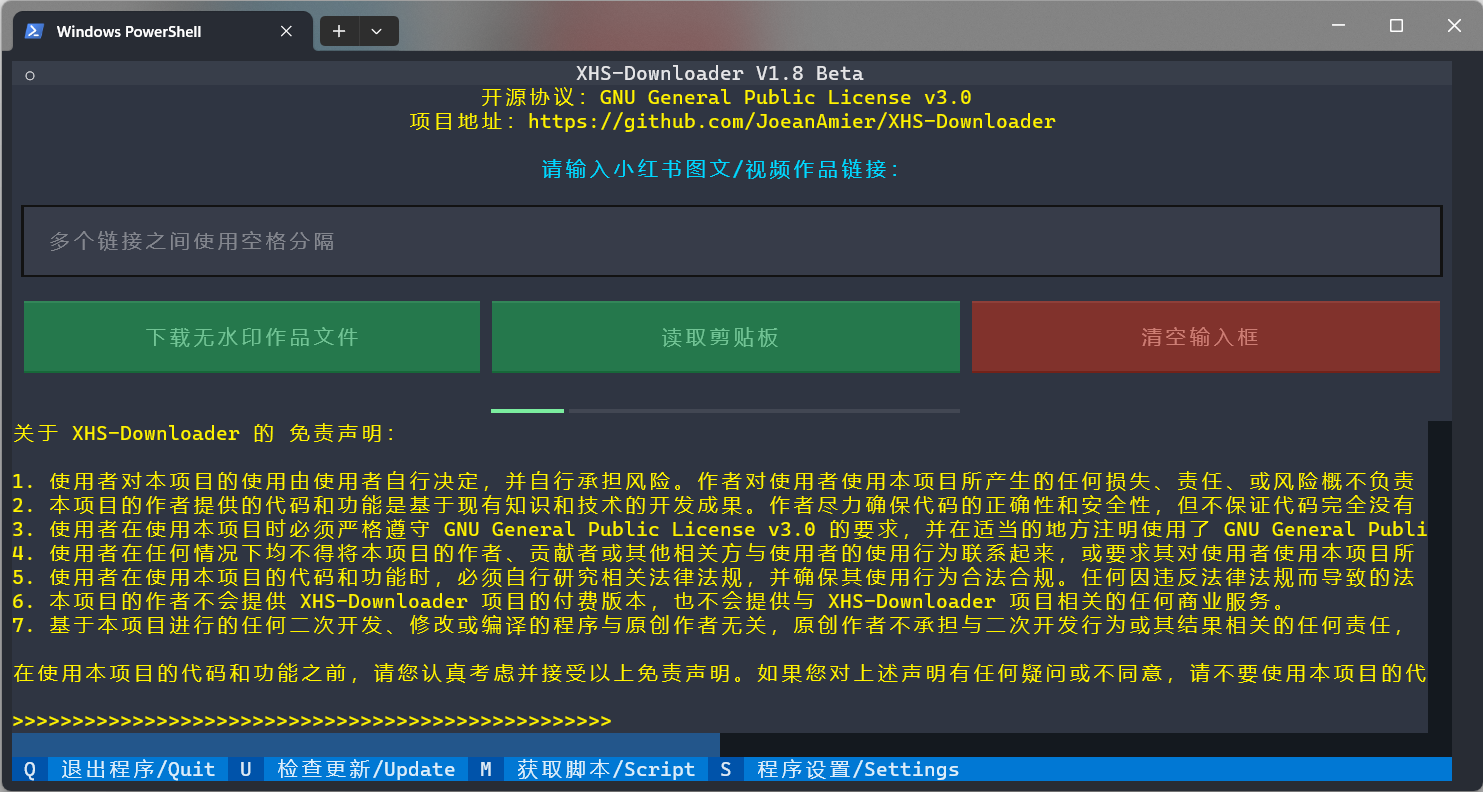
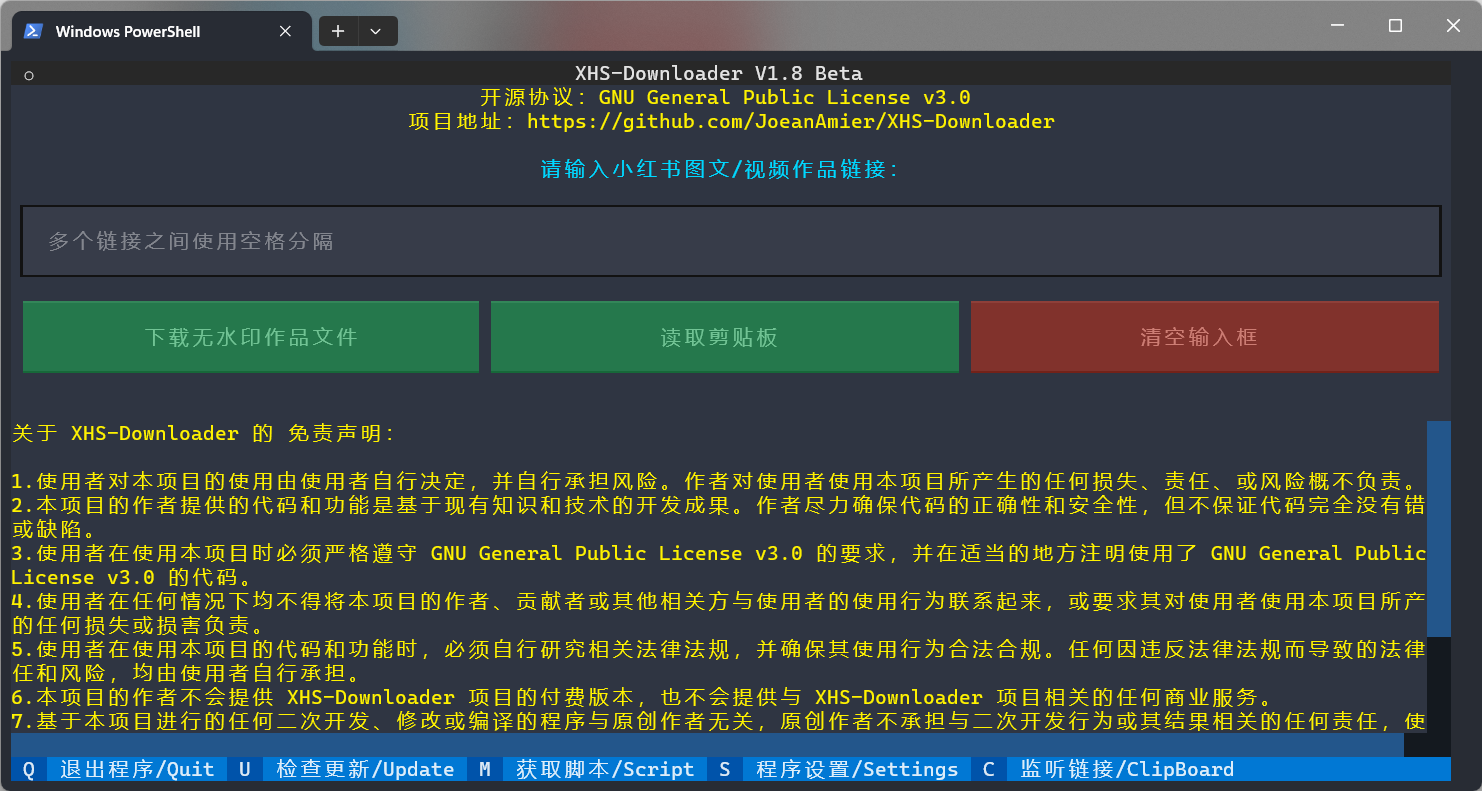
新增监听剪贴板下载作品功能

diff --git a/source/application/app.py b/source/application/app.py
@@ -1,4 +1,12 @@
+from asyncio import Event
+from asyncio import Queue
+from asyncio import QueueEmpty
+from asyncio import gather
+from asyncio import sleep
+from contextlib import suppress
 from re import compile
+
+from pyperclip import paste
 
 from source.expansion import Converter
 from source.expansion import Namespace
@@ -73,6 +81,9 @@ class XHS:
         self.explore = Explore()
         self.convert = Converter()
         self.download = Download(self.manager)
+        self.clipboard_cache: str = ""
+        self.queue = Queue()
+        self.event = Event()
 
     def __extract_image(self, container: dict, data: Namespace):
         container["下载地址"] = self.image.get_image_link(
@@ -141,10 +152,32 @@ class XHS:
         return Namespace(data)
 
     def __naming_rules(self, data: dict) -> str:
-        """下载文件默认使用 作品标题 或 作品 ID 作为文件名称，可修改此方法自定义文件名称格式"""
+        time_ = data["发布时间"].replace(":", ".")
         author = self.manager.filter_name(data["作者昵称"]) or data["作者ID"]
         title = self.manager.filter_name(data["作品标题"]) or data["作品ID"]
-        return f"{author}-{title}"
+        return f"{time_}_{author}_{title[:64]}"
+
+    async def monitor(self, delay=1, download=False, efficient=False, log=None, bar=None) -> None:
+        self.event.clear()
+        await gather(self.__push_link(delay), self.__receive_link(delay, download, efficient, log, bar))
+
+    async def __push_link(self, delay: int):
+        while not self.event.is_set():
+            if (t := paste()).lower() == "close":
+                self.stop_monitor()
+            elif t != self.clipboard_cache:
+                self.clipboard_cache = t
+                [await self.queue.put(i) for i in await self.__extract_links(t, None)]
+            await sleep(delay)
+
+    async def __receive_link(self, delay: int, *args, **kwargs):
+        while not self.event.is_set() or self.queue.qsize() > 0:
+            with suppress(QueueEmpty):
+                await self.__deal_extract(self.queue.get_nowait(), *args, **kwargs)
+            await sleep(delay)
+
+    def stop_monitor(self):
+        self.event.set()
 
     @staticmethod
     async def __suspend(efficient: bool) -> None:

diff --git a/source/application/download.py b/source/application/download.py
@@ -42,7 +42,16 @@ class Download:
                 tasks = self.__ready_download_image(urls, path, name, log)
             case _:
                 raise ValueError
-        tasks = [self.__download(url, path, name, format_, log, bar) for url, name, format_ in tasks]
+        tasks = [
+            self.__download(
+                url,
+                path,
+                name,
+                format_,
+                log,
+                bar) for url,
+            name,
+            format_ in tasks]
         await gather(*tasks)
         return path
 
@@ -51,13 +60,23 @@ class Download:
         path.mkdir(exist_ok=True)
         return path
 
-    def __ready_download_video(self, urls: list[str], path: Path, name: str, log) -> list:
+    def __ready_download_video(
+            self,
+            urls: list[str],
+            path: Path,
+            name: str,
+            log) -> list:
         if any(path.glob(f"{name}.*")):
             logging(log, self.prompt.skip_download(name))
             return []
         return [(urls[0], name, self.video_format)]
 
-    def __ready_download_image(self, urls: list[str], path: Path, name: str, log) -> list:
+    def __ready_download_image(
+            self,
+            urls: list[str],
+            path: Path,
+            name: str,
+            log) -> list:
         tasks = []
         for i, j in enumerate(urls, start=1):
             file = f"{name}_{i}"
@@ -76,7 +95,7 @@ class Download:
                 suffix = self.__extract_type(
                     response.headers.get("Content-Type")) or format_
                 temp = self.temp.joinpath(name)
-                real = path.joinpath(name).with_suffix(f".{suffix}")
+                real = path.joinpath(f"{name}.{suffix}")
                 # self.__create_progress(
                 #     bar, int(
                 #         response.headers.get(

diff --git a/source/TUI/monitor.py b/source/TUI/monitor.py
@@ -1,0 +1,62 @@
+from rich.text import Text
+from textual import on
+from textual import work
+from textual.app import ComposeResult
+from textual.binding import Binding
+from textual.screen import Screen
+from textual.widgets import Button
+from textual.widgets import Footer
+from textual.widgets import Header
+from textual.widgets import Label
+from textual.widgets import RichLog
+
+from source.application import XHS
+from source.module import (
+    PROJECT,
+    MASTER,
+    INFO,
+)
+from source.translator import (
+    English,
+    Chinese,
+)
+
+__all__ = ["Monitor"]
+
+
+class Monitor(Screen):
+    BINDINGS = [
+        Binding(key="q", action="quit", description="退出程序/Quit"),
+        Binding(key="c", action="close", description="关闭监听/Close"),
+    ]
+
+    def __init__(self, app: XHS, language: Chinese | English):
+        super().__init__()
+        self.xhs = app
+        self.prompt = language
+
+    def compose(self) -> ComposeResult:
+        yield Header()
+        yield Label(Text(self.prompt.monitor_mode, style=INFO), id="monitor")
+        yield RichLog(markup=True, wrap=True)
+        yield Button(self.prompt.close_monitor, id="close")
+        yield Footer()
+
+    @on(Button.Pressed, "#close")
+    def close_button(self):
+        self.action_close()
+
+    @work()
+    async def run_monitor(self):
+        await self.xhs.monitor(download=True, log=self.query_one(RichLog))
+        self.action_close()
+
+    def on_mount(self) -> None:
+        self.title = PROJECT
+        self.query_one(RichLog).write(
+            Text(self.prompt.monitor_text, style=MASTER))
+        self.run_monitor()
+
+    def action_close(self):
+        self.xhs.stop_monitor()
+        self.app.pop_screen()

diff --git a/source/TUI/setting.py b/source/TUI/setting.py
@@ -44,7 +44,7 @@ class Setting(Screen):
             Input(self.data["user_agent"], placeholder=self.prompt.user_agent_placeholder, valid_empty=True,
                   id="user_agent", ),
             Label(self.prompt.cookie, classes="params", ),
-            Input(self.data["cookie"], placeholder=self.prompt.cookie_placeholder, valid_empty=True, id="cookie", ),
+            Input(placeholder=self.__check_cookie(), valid_empty=True, id="cookie", ),
             Label(self.prompt.proxy, classes="params", ),
             Input(self.data["proxy"], placeholder=self.prompt.proxy_placeholder, valid_empty=True, id="proxy", ),
             Label(self.prompt.timeout, classes="params", ),
@@ -80,6 +80,11 @@ class Setting(Screen):
         )
         yield Footer()
 
+    def __check_cookie(self) -> str:
+        if self.data["cookie"]:
+            return self.prompt.cookie_placeholder_true
+        return self.prompt.cookie_placeholder_false
+
     def on_mount(self) -> None:
         self.title = self.prompt.settings_title
 
@@ -89,7 +94,7 @@ class Setting(Screen):
             "work_path": self.query_one("#work_path").value,
             "folder_name": self.query_one("#folder_name").value,
             "user_agent": self.query_one("#user_agent").value,
-            "cookie": self.query_one("#cookie").value,
+            "cookie": self.query_one("#cookie").value or self.data["cookie"],
             "proxy": self.query_one("#proxy").value or None,
             "timeout": int(self.query_one("#timeout").value),
             "chunk": int(self.query_one("#chunk").value),

diff --git a/source/module/static.py b/source/module/static.py
@@ -17,14 +17,16 @@ __all__ = [
     "INFO",
     "USERSCRIPT",
     "USERAGENT",
-    "COOKIE",
     "HEADERS",
+    "PROJECT",
 ]
 
 VERSION_MAJOR = 1
 VERSION_MINOR = 8
 VERSION_BETA = True
 ROOT = Path(__file__).resolve().parent.parent.parent
+PROJECT = f"XHS-Downloader V{VERSION_MAJOR}.{
+VERSION_MINOR}{" Beta" if VERSION_BETA else ""}"
 
 REPOSITORY = "https://github.com/JoeanAmier/XHS-Downloader"
 LICENCE = "GNU General Public License v3.0"
@@ -49,14 +51,8 @@ HEADERS = {
     "Upgrade-Insecure-Requests": "1",
 }
 USERAGENT = (
-    "Mozilla/5.0 (Windows NT 10.0; Win64; x64) AppleWebKit/537.36 (KHTML, like Gecko) Chrome/120.0.0.0 "
-    "Safari/537.36 Edg/120.0.0.0")
-COOKIE = (
-    "abRequestId=a1c55c3d-edcd-5753-938b-15d22a78cb8a; webBuild=3.23.2; "
-    "a1=18ceecc41c5d2gkprctahn1jayh458m5eoos9grxb50000267832; webId=79879aaf1b46fa2120dfba20d6155928; "
-    "websectiga=3fff3a6f9f07284b62c0f2ebf91a3b10193175c06e4f71492b60e056edcdebb2; "
-    "sec_poison_id=52bff38d-96eb-40b6-a46b-5e7cc86014e4; web_session=030037a2ae3713ec49882425e5224a3cbb4eef; "
-    "gid=yYSddSS2DKdyyYSddSS4ylkFS2fJkTUFS90xlCDIyV0vxM2842Y62j888JKWYqJ8iDD4KY2d; xsecappid=xhs-pc-web")
+    "Mozilla/5.0 (Windows NT 10.0; Win64; x64) AppleWebKit/537.36 (KHTML, like Gecko) Chrome/121.0.0.0 "
+    "Safari/537.36 Edg/121.0.0.0")
 
 MASTER = "b #fff200"
 PROMPT = "b turquoise2"

diff --git a/source/translator/english.py b/source/translator/english.py
@@ -78,7 +78,8 @@ class English(Chinese):
 
     work_path_placeholder: str = "Program root path"
     user_agent_placeholder: str = "Default UA"
-    cookie_placeholder: str = "built-in cookie, it is recommended to set it manually"
+    cookie_placeholder_true: str = "Xiaohongshu web version cookie, no login required, parameters have been set"
+    cookie_placeholder_false: str = "Xiaohongshu web version cookie, no login required, parameters not set"
     proxy_placeholder: str = "No proxy"
 
     settings_title: str = "Settings"
@@ -86,6 +87,13 @@ class English(Chinese):
     abandon_button: str = "Discard changes"
 
     processing: str = "Processing..."
+
+    monitor_mode: str = "Currently in monitoring clipboard mode"
+    monitor_text: str = (
+        "The program will automatically read and extract the link to Xiaohongshu's works from the "
+        "clipboard, and automatically download the corresponding work file. If you want to close it, "
+        "please click the close button or write the \"close\" text to the clipboard!")
+    close_monitor: str = "Exit monitoring clipboard mode"
 
     @staticmethod
     def request_error(url: str) -> str:

diff --git a/source/TUI/index.py b/source/TUI/index.py
@@ -18,9 +18,7 @@ from textual.widgets import RichLog
 
 from source.application import XHS
 from source.module import (
-    VERSION_MAJOR,
-    VERSION_MINOR,
-    VERSION_BETA,
+    PROJECT,
     PROMPT,
     MASTER,
     ERROR,
@@ -44,6 +42,7 @@ class Index(Screen):
         Binding(key="u", action="check_update", description="检查更新/Update"),
         Binding(key="m", action="user_script", description="获取脚本/Script"),
         Binding(key="s", action="settings", description="程序设置/Settings"),
+        Binding(key="c", action="clipboard", description="监听链接/ClipBoard"),
     ]
 
     def __init__(self, app: XHS, language: Chinese | English):
@@ -82,8 +81,7 @@ class Index(Screen):
         yield Footer()
 
     def on_mount(self) -> None:
-        self.title = f"XHS-Downloader V{VERSION_MAJOR}.{
-        VERSION_MINOR}{" Beta" if VERSION_BETA else ""}"
+        self.title = PROJECT
         self.url = self.query_one(Input)
         self.tip = self.query_one(RichLog)
         self.tip.write(Text("\n".join(self.prompt.disclaimer), style=MASTER))

diff --git a/source/translator/chinese.py b/source/translator/chinese.py
@@ -60,7 +60,8 @@ class Chinese:
 
     work_path_placeholder: str = "程序根路径"
     user_agent_placeholder: str = "默认 UA"
-    cookie_placeholder: str = "内置 Cookie，建议自行设置"
+    cookie_placeholder_true: str = "小红书网页版 Cookie，无需登录，参数已设置"
+    cookie_placeholder_false: str = "小红书网页版 Cookie，无需登录，参数未设置"
     proxy_placeholder: str = "无代理"
 
     settings_title: str = "程序设置"
@@ -68,6 +69,10 @@ class Chinese:
     abandon_button: str = "放弃更改"
 
     processing: str = "程序处理中..."
+
+    monitor_mode: str = "已启动监听剪贴板模式"
+    monitor_text: str = "程序会自动读取并提取剪贴板中的小红书作品链接，并自动下载链接对应的作品文件，如需关闭，请点击关闭按钮，或者向剪贴板写入 “close” 文本！"
+    close_monitor: str = "退出监听剪贴板模式"
 
     @staticmethod
     def request_error(url: str) -> str:

diff --git a/source/module/manager.py b/source/module/manager.py
@@ -11,7 +11,6 @@ from aiohttp import ClientTimeout
 
 from source.translator import Chinese
 from source.translator import English
-from .static import COOKIE
 from .static import HEADERS
 from .static import USERAGENT
 
@@ -19,7 +18,7 @@ __all__ = ["Manager"]
 
 
 class Manager:
-    NAME = compile(r"[^\u4e00-\u9fa5a-zA-Z0-9]")
+    NAME = compile(r"[^\u4e00-\u9fffa-zA-Z0-9！？，。；：“”（）《》]")
 
     def __init__(
             self,
@@ -43,7 +42,7 @@ class Manager:
         self.folder = self.__check_folder(folder)
         self.blank_headers = HEADERS | {
             "User-Agent": user_agent or USERAGENT, }
-        self.headers = self.blank_headers | {"Cookie": cookie or COOKIE}
+        self.headers = self.blank_headers | {"Cookie": cookie}
         self.retry = retry
         self.chunk = chunk
         self.record_data = record_data

diff --git a/source/TUI/app.py b/source/TUI/app.py
@@ -15,6 +15,7 @@ from source.translator import (
 )
 from .index import Index
 from .loading import Loading
+from .monitor import Monitor
 from .setting import Setting
 from .update import Update
 
@@ -84,3 +85,6 @@ class XHSDownloader(App):
 
     async def action_check_update(self):
         await self.push_screen(Update(self.APP, self.prompt), callback=self.update_result)
+
+    async def action_clipboard(self):
+        await self.push_screen(Monitor(self.APP, self.prompt))

diff --git a/source/module/__init__.py b/source/module/__init__.py
@@ -19,8 +19,8 @@ from .static import (
     INFO,
     USERSCRIPT,
     USERAGENT,
-    COOKIE,
     HEADERS,
+    PROJECT,
 )
 from .tools import (
     retry,
@@ -49,9 +49,9 @@ __all__ = [
     "INFO",
     "USERSCRIPT",
     "USERAGENT",
-    "COOKIE",
     "HEADERS",
     "retry",
     "logging",
     "wait",
+    "PROJECT",
 ]

diff --git a/source/application/explore.py b/source/application/explore.py
@@ -6,7 +6,7 @@ __all__ = ['Explore']
 
 
 class Explore:
-    time_format = "%Y-%m-%d %H:%M:%S"
+    time_format = "%Y-%m-%d_%H:%M:%S"
     explore_type = {"video": "视频", "normal": "图文"}
 
     def run(self, data: Namespace) -> dict:
